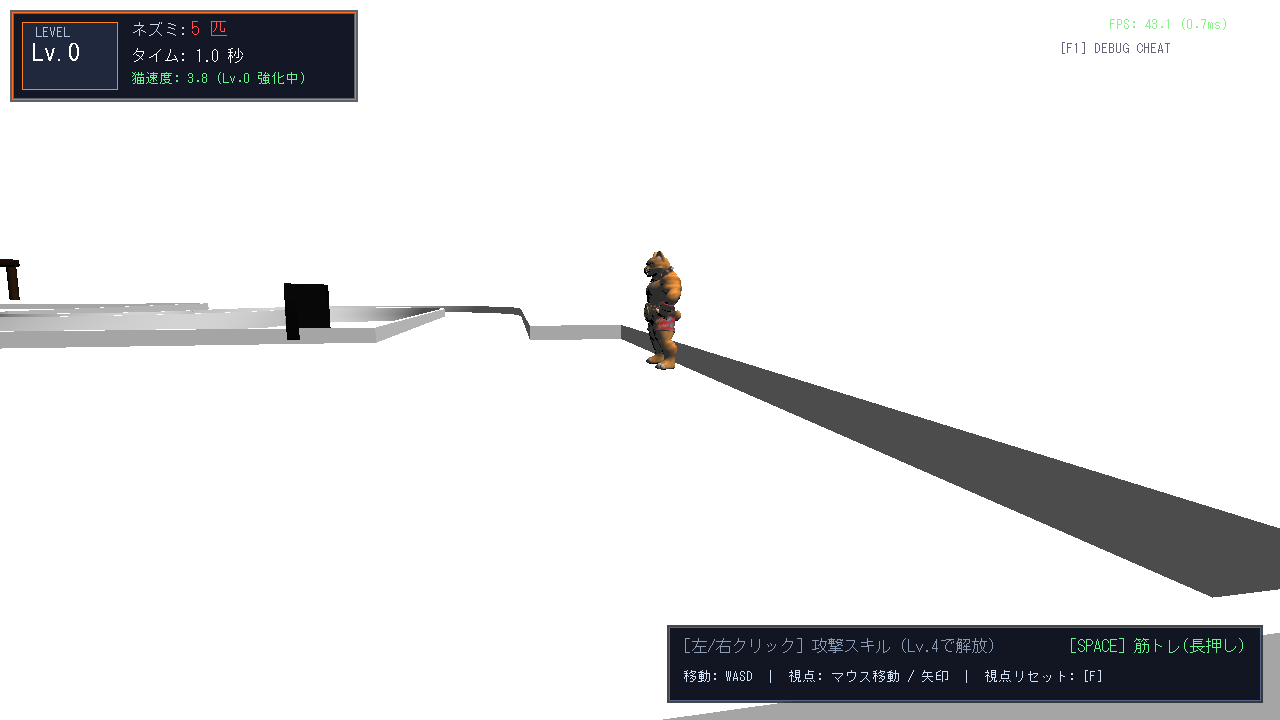
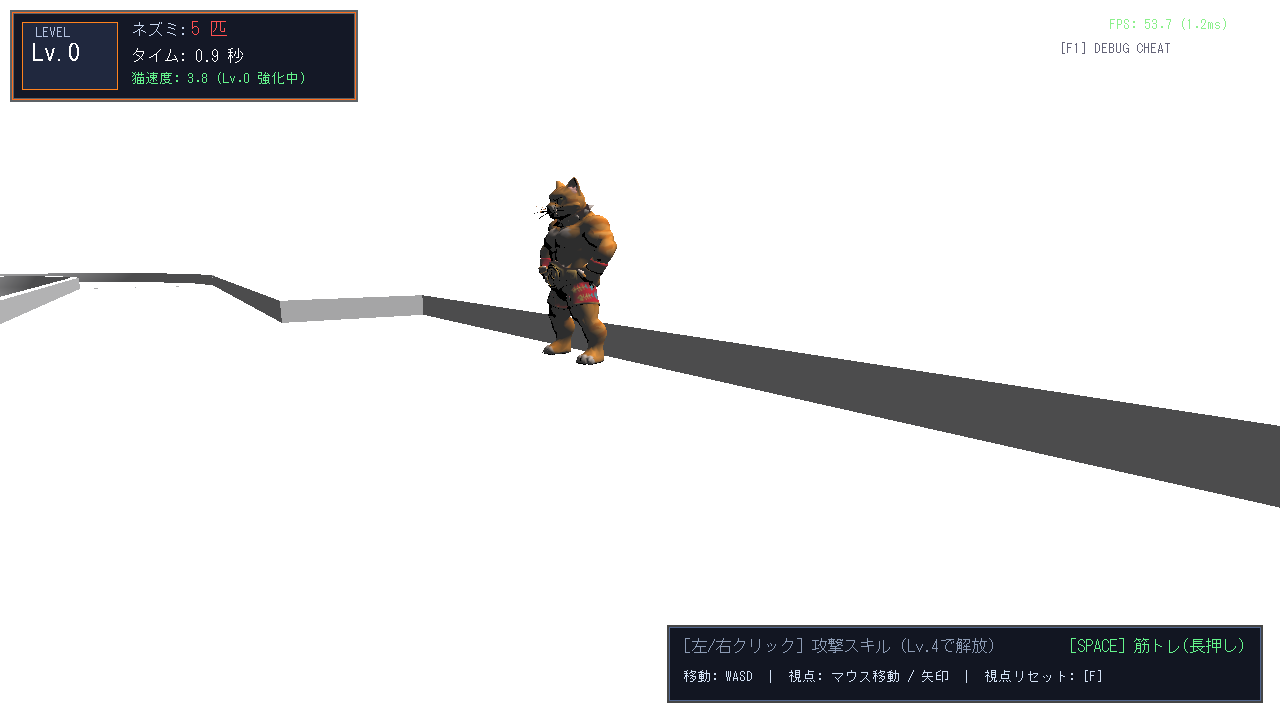
Remove furniture/obstacles and implement wall and boundary collision for mice

Changed region(s): [[0.0, 0.2444, 1.0, 0.825], [0.5312, 0.8861, 1.0, 1.0]]

diff --git a/Source/ObjectManager3D.cpp b/Source/ObjectManager3D.cpp
@@ -323,29 +323,89 @@ void ObjectManager3D::CheckObstacleAndStageCollisions()
             continue;
         }
 
+        auto mouse = std::dynamic_pointer_cast<MouseBase3D>(obj);
         VECTOR mPos = obj->GetPos();
         float mRadius = obj->GetRadius();
+        VECTOR prevPos = mouse ? mouse->GetPrevPos() : mPos;
+        bool collided = false;
 
+        // 障害物との押し出し判定（家具が配置されている場合）
         for (const auto& obs : m_obstacles)
         {
-            obs->ResolveCollision(mPos, mRadius);
-        }
-
-        VECTOR pushNormal = VGet(0.0f, 0.0f, 0.0f);
-        if (m_stage.ResolveWallCollision(mPos, mRadius, &pushNormal))
-        {
-            auto mouse = std::dynamic_pointer_cast<MouseBase3D>(obj);
-            if (mouse)
+            if (obs->ResolveCollision(mPos, mRadius))
             {
-                mouse->OnWallCollision(pushNormal);
+                collided = true;
             }
         }
 
-        // ネズミの床・坂道への接地判定
+        // ステージ壁との押し出し判定
+        VECTOR pushNormal = VGet(0.0f, 0.0f, 0.0f);
+        if (m_stage.ResolveWallCollision(mPos, mRadius, &pushNormal))
+        {
+            collided = true;
+        }
+
+        // セーフティネット：外周境界ボックスによる制限
+        VECTOR preClampPos = mPos;
+        if (m_stage.ClampToBounds(mPos, mRadius))
+        {
+            collided = true;
+            if (pushNormal.x == 0.0f && pushNormal.z == 0.0f)
+            {
+                pushNormal.x = mPos.x - preClampPos.x;
+                pushNormal.z = mPos.z - preClampPos.z;
+            }
+        }
+
+        // 床・坂道接地判定および壁外・崖外への抜け落ち防止
         float groundY = 0.0f;
         if (m_stage.GetGroundHeight(mPos, groundY))
         {
             mPos.y = groundY;
+        }
+        else
+        {
+            // 床のない空間（壁の外側・マップ外）に出ようとした場合
+            // まず X方向のみ移動を試行（壁沿いスライディング）
+            float testGroundY = 0.0f;
+            VECTOR testPosX = VGet(mPos.x, prevPos.y, prevPos.z);
+            VECTOR testPosZ = VGet(prevPos.x, prevPos.y, mPos.z);
+
+            if (m_stage.GetGroundHeight(testPosX, testGroundY))
+            {
+                mPos.x = testPosX.x;
+                mPos.z = prevPos.z;
+                mPos.y = testGroundY;
+            }
+            else if (m_stage.GetGroundHeight(testPosZ, testGroundY))
+            {
+                mPos.x = prevPos.x;
+                mPos.z = testPosZ.z;
+                mPos.y = testGroundY;
+            }
+            else
+            {
+                // 両方床外なら前フレーム位置に戻す
+                mPos.x = prevPos.x;
+                mPos.z = prevPos.z;
+                float prevGy = 0.0f;
+                if (m_stage.GetGroundHeight(prevPos, prevGy))
+                {
+                    mPos.y = prevGy;
+                }
+            }
+            collided = true;
+            if (pushNormal.x == 0.0f && pushNormal.z == 0.0f && mouse)
+            {
+                pushNormal.x = -mouse->GetVelocityX();
+                pushNormal.z = -mouse->GetVelocityZ();
+            }
+        }
+
+        // 壁や境界に衝突した場合、ネズミの速度と方向を反射・更新
+        if (collided && mouse)
+        {
+            mouse->OnWallCollision(pushNormal);
         }
 
         obj->SetPos(mPos);

diff --git a/Source/Mouse3D.cpp b/Source/Mouse3D.cpp
@@ -200,25 +200,33 @@ void MouseBase3D::OnWallCollision(const VECTOR& pushNormal)
     // 壁に向かっていた速度成分（内積）
     float dot = m_vx * nx + m_vz * nz;
 
+    // 壁の接線ベクトル（壁沿いにスムーズに逃げる方向）
+    float tx = -nz;
+    float tz = nx;
+    float tDot = m_vx * tx + m_vz * tz;
+    if (tDot < 0.0f)
+    {
+        tx = -tx;
+        tz = -tz;
+    }
+
     if (dot < 0.0f)
     {
-        // 反射（リフレクション）＋法線方向へのプッシュ
-        m_vx = m_vx - 2.0f * dot * nx;
-        m_vz = m_vz - 2.0f * dot * nz;
+        // 壁に向かっていた場合: 壁法線への強い反発 + 壁沿いスライディング
+        float bounceVx = -dot * nx;
+        float bounceVz = -dot * nz;
+        float slideVx = tx * currentSpd * 0.75f;
+        float slideVz = tz * currentSpd * 0.75f;
+
+        m_vx = bounceVx * 1.3f + slideVx;
+        m_vz = bounceVz * 1.3f + slideVz;
     }
     else
     {
-        // すでに離れる方向なら、さらに法線方向へ加速
-        m_vx += nx * currentSpd * 0.8f;
-        m_vz += nz * currentSpd * 0.8f;
+        // すでに壁から離れる方向なら、さらに法線方向へ加速＋壁沿いスライド
+        m_vx = nx * currentSpd * 0.85f + tx * currentSpd * 0.5f;
+        m_vz = nz * currentSpd * 0.85f + tz * currentSpd * 0.5f;
     }
-
-    // ランダムな散乱（±35度）を加えて角に挟まらないようにする
-    float randAngle = static_cast<float>((rand() % 70) - 35) * MathHelper::DEG_TO_RAD;
-    float rx = m_vx * std::cos(randAngle) - m_vz * std::sin(randAngle);
-    float rz = m_vx * std::sin(randAngle) + m_vz * std::cos(randAngle);
-    m_vx = rx;
-    m_vz = rz;
 
     // スピードに合わせて正規化
     float vLen = std::sqrt(m_vx * m_vx + m_vz * m_vz);
@@ -231,7 +239,7 @@ void MouseBase3D::OnWallCollision(const VECTOR& pushNormal)
     // 向きを即座に更新
     m_rotY = std::atan2(m_vx, m_vz);
 
-    // 新たな安全な目標地点を再選択し、進行を継続
+    // 新たな安全な目標地点を再選択し、進行を継続（部屋の内側へ誘導）
     ChooseNewPatrolTarget();
     m_patrolTimer = 90 + rand() % 90;
 }
@@ -335,6 +343,7 @@ NormalMouse3D::NormalMouse3D(const VECTOR& pos, std::shared_ptr<Player3D> player
 
 void NormalMouse3D::Update()
 {
+    m_prevPos = m_pos;
     m_animTime += 1.0f / 60.0f;
 
     // スタン時は完全に行動停止
@@ -402,6 +411,7 @@ FastMouse3D::FastMouse3D(const VECTOR& pos, std::shared_ptr<Player3D> player)
 
 void FastMouse3D::Update()
 {
+    m_prevPos = m_pos;
     m_animTime += 1.0f / 60.0f;
 
     // スタン時は完全に行動停止

diff --git a/Source/Stage3D.cpp b/Source/Stage3D.cpp
@@ -470,7 +470,8 @@ bool Stage3D::ResolveWallCollision(VECTOR& outPos, float radius, VECTOR* outPush
             float bestPushX = 0.0f;
             float bestPushZ = 0.0f;
 
-            float charHeight = (radius * 2.0f > 24.0f) ? (radius * 2.0f) : 24.0f;
+            // キャラクター判定高さ：垂直壁を猫もネズミも確実に検出できるよう最低60.0fを確保
+            float charHeight = (radius * 2.5f > 60.0f) ? (radius * 2.5f) : 60.0f;
             float catBottomY = outPos.y;
             float catTopY    = outPos.y + charHeight;
 
@@ -479,13 +480,13 @@ bool Stage3D::ResolveWallCollision(VECTOR& outPos, float radius, VECTOR* outPush
                 // AABB による高速カリング（キャラクター判定範囲外のポリゴンは即座にスキップ）
                 if (outPos.x + radius < poly.minPos.x || outPos.x - radius > poly.maxPos.x ||
                     outPos.z + radius < poly.minPos.z || outPos.z - radius > poly.maxPos.z ||
-                    catTopY < poly.minPos.y || (catBottomY + 3.0f) > poly.maxPos.y)
+                    catTopY < poly.minPos.y || (catBottomY + 1.0f) > poly.maxPos.y)
                 {
                     continue;
                 }
 
                 // 足元より下、または頭より上にある無関係なポリゴン（床の凹凸や天井・梁）は除外
-                if (poly.maxPos.y < catBottomY + 3.0f || poly.minPos.y > catTopY)
+                if (poly.maxPos.y < catBottomY + 1.0f || poly.minPos.y > catTopY)
                 {
                     continue;
                 }

diff --git a/Source/Main.cpp b/Source/Main.cpp
@@ -299,7 +299,28 @@ int WINAPI WinMain(HINSTANCE hInstance, HINSTANCE hPrevInstance, LPSTR lpCmdLine
                     LogTest(buf);
                 }
             }
-            else if (autoTestFrame > 160)
+            else if (autoTestFrame == 158)
+            {
+                // テスト: 家具撤去確認（Obstacle 数が 0 であること）
+                int obstacleCount = static_cast<int>(game.GetObjManager().GetObstacles().size());
+                bool noObstacles = (obstacleCount == 0);
+
+                // テスト: ネズミの壁当たり判定確認（壁位置 X=2060 に向けてネズミを置いた時、壁を検出し内側へ押し戻すこと）
+                const auto& stage = game.GetObjManager().GetStage();
+                VECTOR testMousePos = VGet(2058.0f, 20.0f, 650.0f);
+                float mRadius = 12.0f;
+                VECTOR pushNormal = VGet(0.0f, 0.0f, 0.0f);
+                bool wallHit = stage.ResolveWallCollision(testMousePos, mRadius, &pushNormal);
+                bool pushBackOk = (testMousePos.x <= 2049.0f);
+
+                char buf[256];
+                snprintf(buf, sizeof(buf), "AutoTest FURNITURE & MOUSE WALL: NoObstacles=%s (count=%d), MouseWallCollision=%s, PushedInside=%s\n",
+                    (noObstacles ? "PASS" : "FAIL"), obstacleCount,
+                    (wallHit ? "PASS" : "FAIL"),
+                    (pushBackOk ? "PASS" : "FAIL"));
+                LogTest(buf);
+            }
+            else if (autoTestFrame > 165)
             {
                 break;
             }

diff --git a/Source/Mouse3D.h b/Source/Mouse3D.h
@@ -15,6 +15,7 @@ protected:
     float m_speedBonus = 0.0f; // 仲間の被捕食数 * 0.1f
     float m_animTime = 0.0f;
     int   m_stunTimer = 0;     // スタン残りフレーム数
+    VECTOR m_prevPos = VGet(0.0f, 0.0f, 0.0f); // 移動前の位置（壁抜け・床外抜け防止用）
 
     // 建物徘徊・パトロール用
     VECTOR m_targetWaypoint = VGet(0.0f, 0.0f, 0.0f);
@@ -95,6 +96,32 @@ public:
 
     // 壁衝突イベント（押し出し法線を受け取り、反射・スライディングして方向転換）
     virtual void OnWallCollision(const VECTOR& pushNormal);
+
+    const VECTOR& GetPrevPos() const
+    {
+        return m_prevPos;
+    }
+
+    void SetPrevPos(const VECTOR& pos)
+    {
+        m_prevPos = pos;
+    }
+
+    float GetVelocityX() const
+    {
+        return m_vx;
+    }
+
+    float GetVelocityZ() const
+    {
+        return m_vz;
+    }
+
+    void SetVelocity(float vx, float vz)
+    {
+        m_vx = vx;
+        m_vz = vz;
+    }
 
     // 徘徊AI：新しい巡回部屋・地点を選択
     void ChooseNewPatrolTarget();

diff --git a/Source/GameManager.cpp b/Source/GameManager.cpp
@@ -24,6 +24,9 @@ void GameManager::Init()
 
 void GameManager::SetupRoomObstacles()
 {
+    // ★ ユーザーリクエスト: 家具を一度どかす（家具配置を無効化）
+    return;
+
     // AccessoryModels（キッチン、冷蔵庫、テーブル、テレビ）を部屋・ステージに配置
     // 各家具の接地高さ（床・高台・スロープ）を自動取得して配置
     const auto& stage = m_objManager.GetStage();

diff --git a/Source/ObjectManager3D.h b/Source/ObjectManager3D.h
@@ -48,6 +48,11 @@ public:
     void AddObject(std::shared_ptr<GameObject3D> obj);
     void AddObstacle(std::shared_ptr<Obstacle3D> obs);
 
+    const std::vector<std::shared_ptr<Obstacle3D>>& GetObstacles() const
+    {
+        return m_obstacles;
+    }
+
     // デバッグチート用メソッド
     void SetTimeFrozen(bool frozen)
     {
